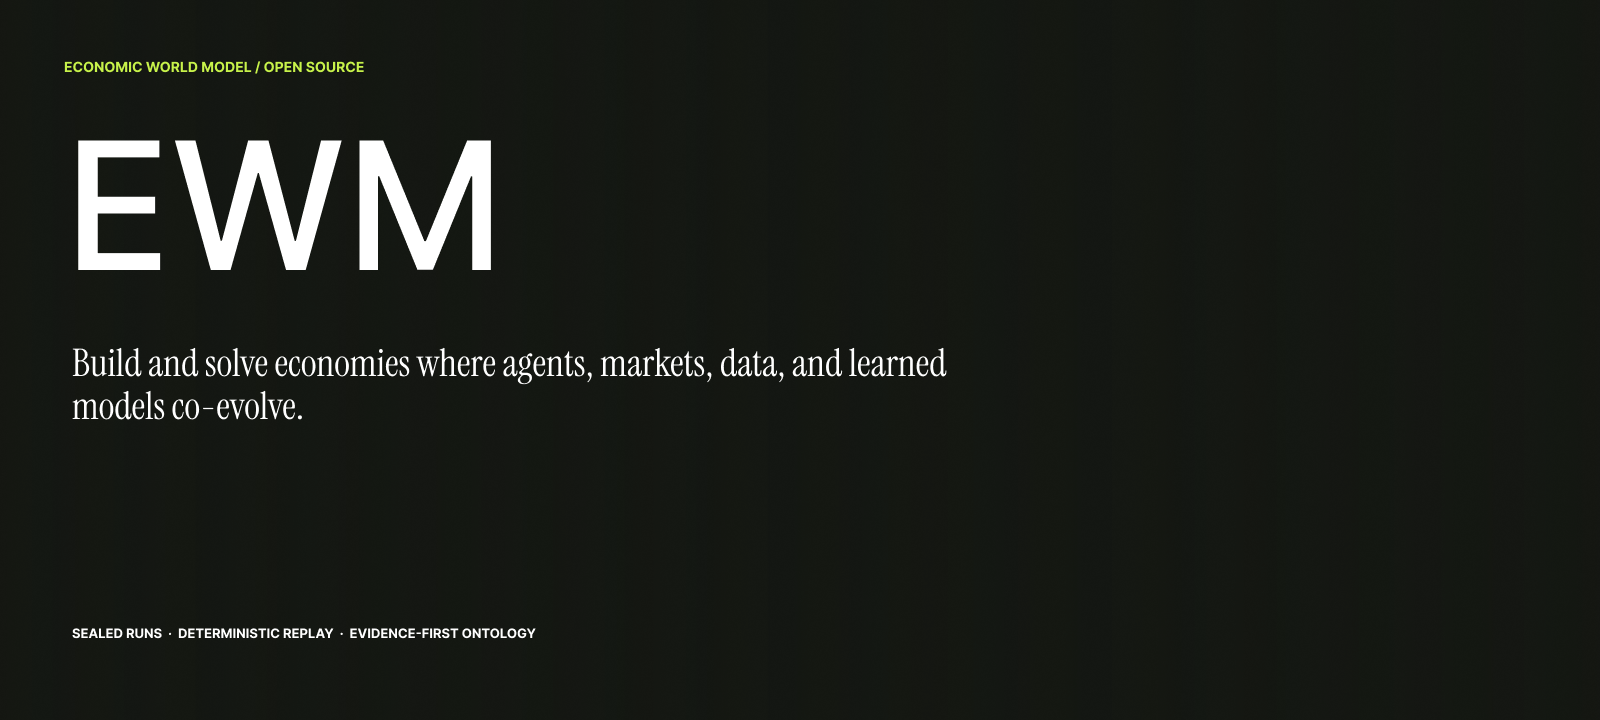
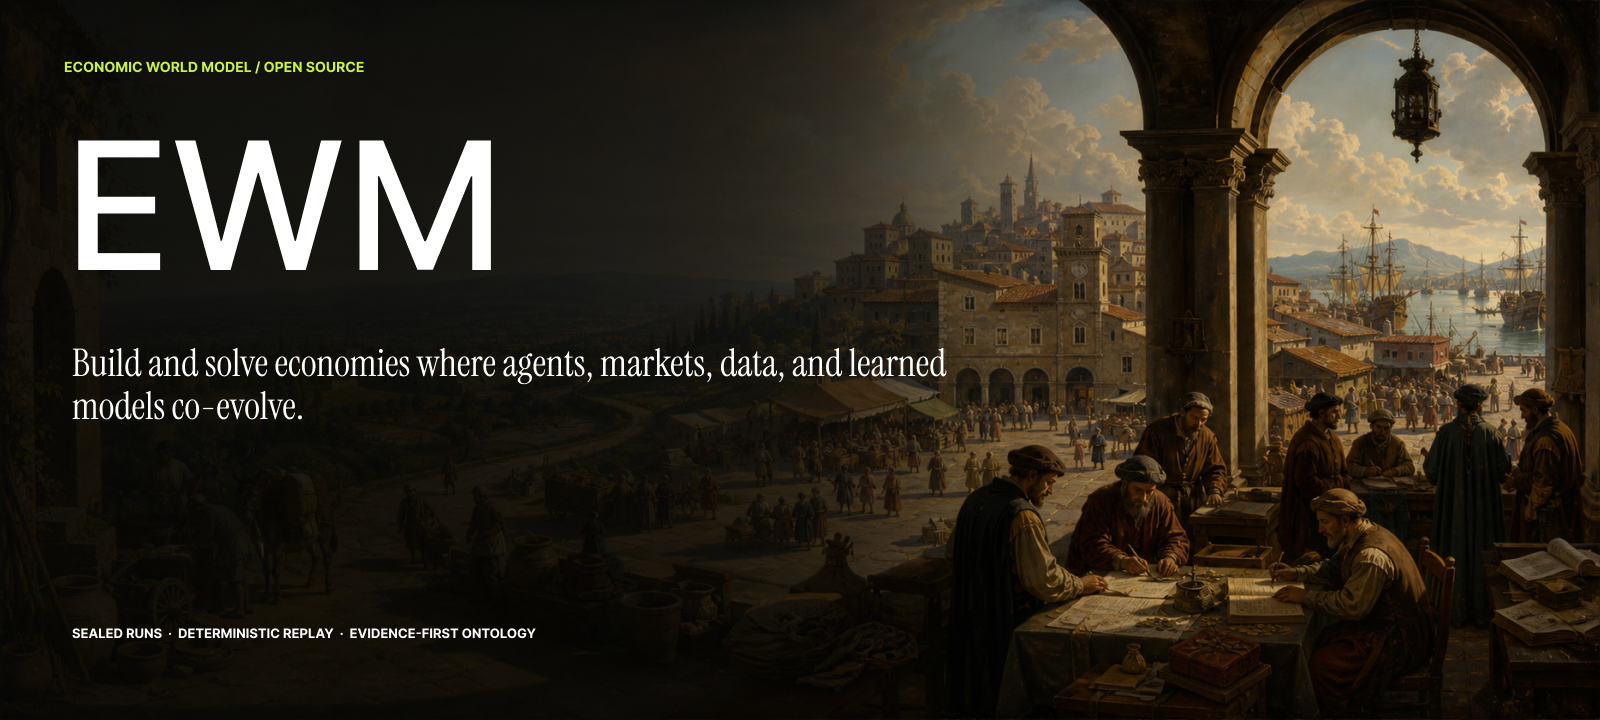
docs(readme): add Renaissance EWM project cover

Changed region(s): [[0.4688, 0.0, 1.0, 0.9472], [0.9375, 0.7333, 1.0, 0.8861], [0.6875, 0.9167, 0.7188, 0.9778]]

diff --git a/docs/design/ewm-visual-system.md b/docs/design/ewm-visual-system.md
@@ -86,8 +86,9 @@ no remote design-system requests.
 
 ## Artwork provenance
 
-All four scenes were generated for EWM on 2026-08-29 with OpenAI's built-in image generation tool.
-They are original Renaissance-inspired scenes, not reproductions of historical paintings. The
+The first four editorial scenes were generated for EWM on 2026-08-29, and the panoramic project
+cover was generated on 2026-08-30, using OpenAI's built-in image generation tool. They are original
+Renaissance-inspired scenes, not reproductions of historical paintings. The
 prompts prohibited text, logos, watermarks, recognizable people, named-artist imitation, and copying
 an existing painting.
 
@@ -97,10 +98,13 @@ an existing painting.
 | `workbench/src/assets/ewm-exchange-venice-v1.webp` | `exec-5c94bf53-55d1-40a8-8a2b-b14b52dd7d65` | Venetian maritime exchange, currencies, contracts, maps, shipping flows, silvery lagoon dawn | Markets and networks |
 | `workbench/src/assets/ewm-learning-workshop-v1.webp` | `exec-e9878349-f07f-42f2-85f6-eb85c1b4cb72` | Renaissance workshop, mechanical market model, instruments, feedback, collective revision | Learning and co-evolution |
 | `workbench/src/assets/ewm-civic-market-v1.webp` | `exec-df5233af-53ae-4ce4-8a4b-9847234e1232` | Tuscan civic market, households, artisans, lenders, officials, institutions and exchange | World and institutions |
+| `docs/assets/workbench/ewm-renaissance-cover-background-v1.png` | `exec-b9f6697e-23e5-46f2-b49f-2b0283e0697b` | Panoramic Italian economic world, spanning ledgers, markets, roads, workshops, fields, institutions, and maritime trade | Primary repository cover |
 
 The editable image fills and overlaid type compositions are in the Figma Renaissance Series frame.
-The committed [series export](../assets/workbench/figma-renaissance-series.png) provides a durable
-repository preview.
+The primary project cover remains editable in the Figma README Hero frame, where a directional
+legibility wash preserves the title while revealing the full economic panorama. The committed
+[series export](../assets/workbench/figma-renaissance-series.png) and [README cover](../assets/workbench/figma-hero.png)
+provide durable repository previews.
 
 ## Release workflow
 

diff --git a/README.md b/README.md
@@ -18,7 +18,7 @@ Build and solve economies where agents, markets, data, and learned models co-evo
 </p>
 
 <p align="center">
-  <img src="docs/assets/workbench/figma-hero.png" alt="Economic World Model release artwork over a Renaissance harbor economy" width="100%">
+  <img src="docs/assets/workbench/figma-hero.png" alt="Economic World Model over a Renaissance economic world of markets, ledgers, roads, workshops, and maritime trade" width="100%">
 </p>
 
 Economic World Model is an auditable research implementation of selected definitions, protocols,
